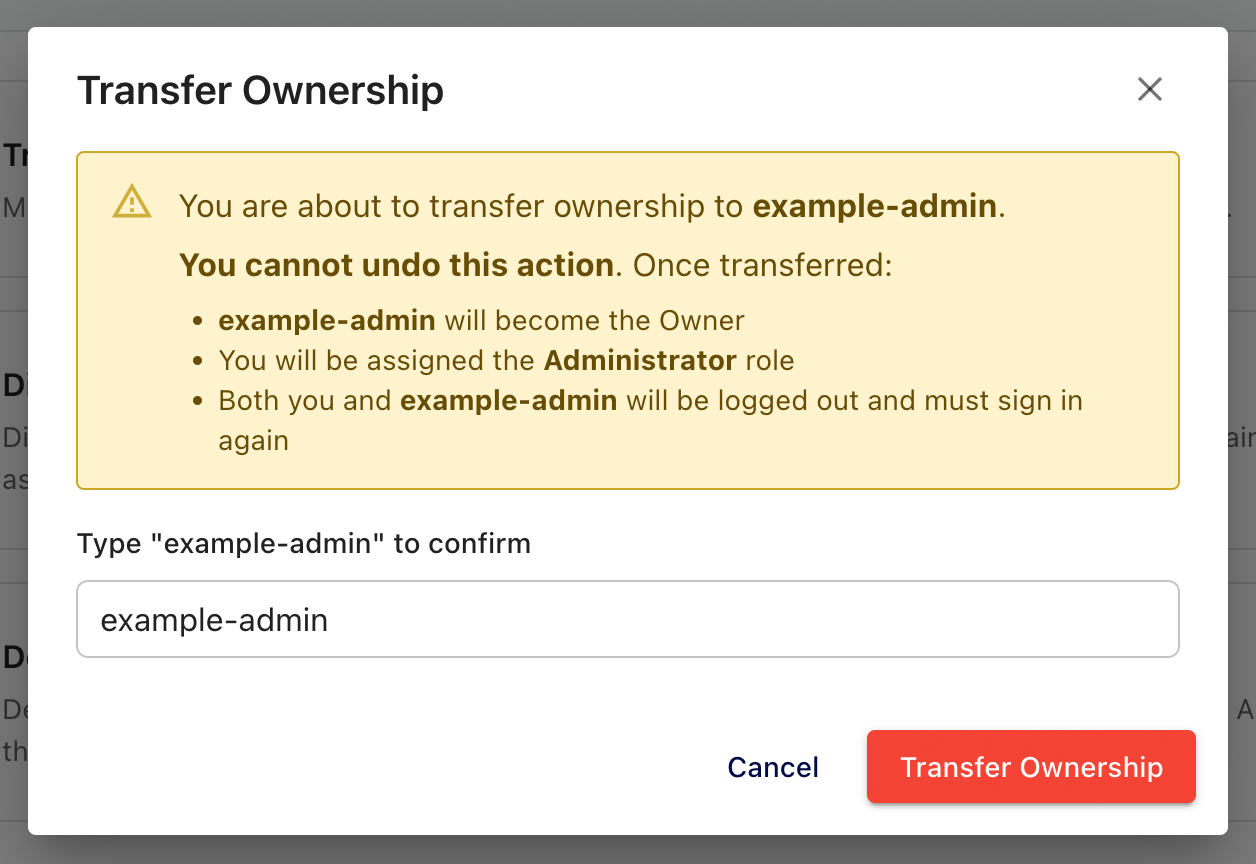
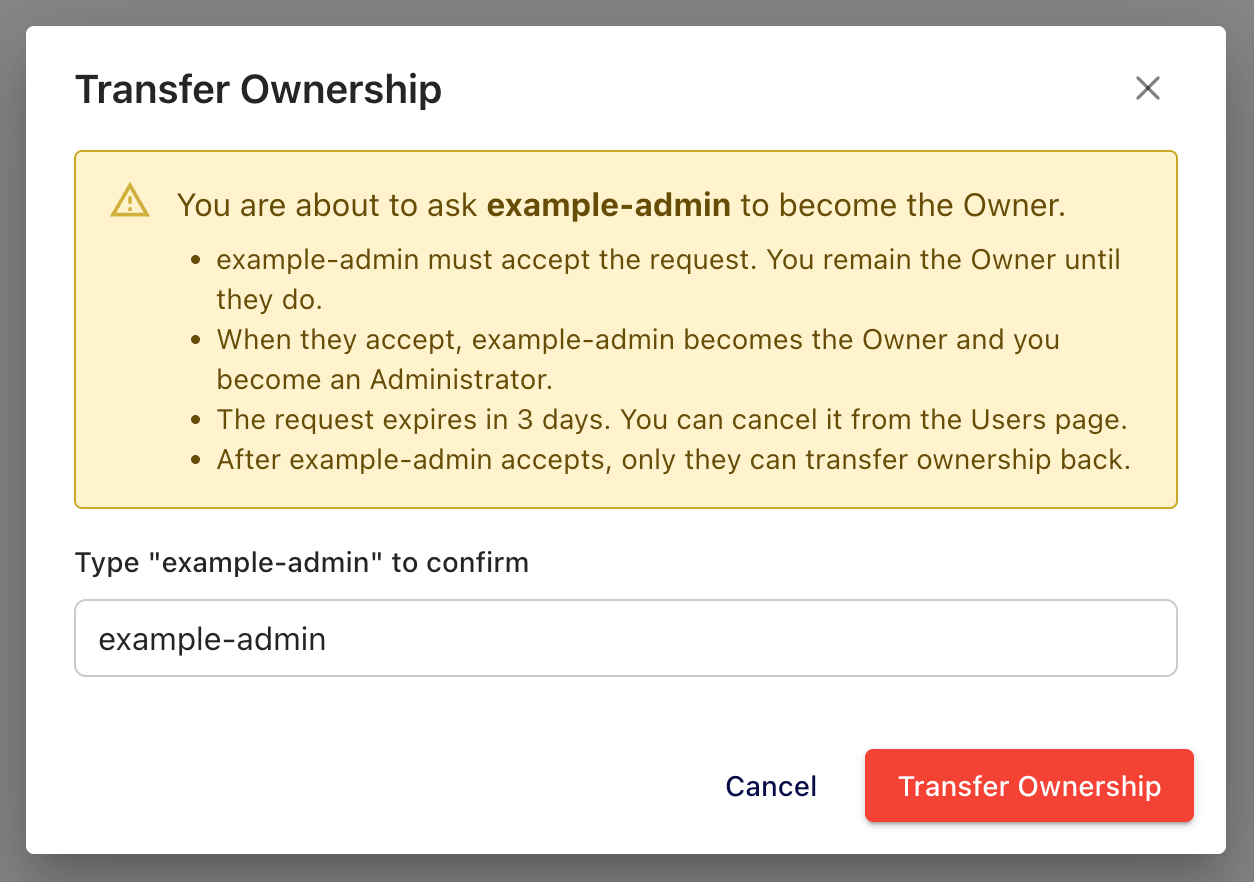
docs(controller): document the ownership transfer flow in the web interface
What changed:
- users/transfer-ownership.md: the page now describes the request-and-
  accept flow in the web interface. "How a transfer works" says both sides
  see the request and that audit logging records each step. "Request the
  transfer" explains the Request Sent confirmation, that the owner keeps
  the role, and what the Users page shows while the request is pending.
  "Accept the transfer" walks the target from the banner's Review request
  button to the Account page card and the Accept Ownership dialog, with
  the recovery password fields for LDAP and OIDC accounts. "Decline or
  cancel a request" covers the Decline button and the three places the
  owner can cancel. "What happens when the transfer is accepted" notes that
  nobody is signed out. A "Use the API" table replaces the API console
  walkthrough. The 1.2 callout about the interface not showing pending
  requests is removed.
- static/img/telegraf: the transfer dialog screenshot is recaptured for
  the new copy and a screenshot of the Account page card is added.
- admin/audit-logs/_index.md: "Ownership transfers" joins "What gets
  audited".
- reference/release-notes.md: a v1.2.0 Features bullet for the flow.

Why:
Telegraf Controller 1.2.0 adds the pending-transfer banner, Account page
card, accept dialog, Users page section, and cancel actions (telegraf_ui
#990 and #991), plus ownership_transfer.* audit events. The page
previously sent target administrators to the API console. Facts verified
[…]

diff --git a/content/telegraf/controller/users/transfer-ownership.md b/content/telegraf/controller/users/transfer-ownership.md
@@ -2,7 +2,7 @@
 title: Transfer ownership
 description: >
   Transfer the Telegraf Controller owner role to another administrator.
-  The owner requests the transfer and the administrator accepts it.
+  The owner sends a request and the administrator accepts it.
 menu:
   telegraf_controller:
     name: Transfer ownership
@@ -10,6 +10,7 @@ menu:
 weight: 104
 related:
   - /telegraf/controller/reference/authentication-authorization/
+  - /telegraf/controller/admin/audit-logs/
   - /telegraf/controller/reference/api/
 ---
 
@@ -18,8 +19,8 @@ including the ability to manage all users, tokens, and settings. Only one owner
 can exist at a time. The current owner can transfer ownership to any active
 administrator.
 
-An ownership transfer is a two-step handoff: the owner requests the transfer,
-and the target administrator accepts it. Nothing changes until the target
+An ownership transfer is a two-step handoff: the owner sends a request, and
+the target administrator accepts it. Nothing changes until the target
 accepts.
 
 - [Prerequisites and restrictions](#prerequisites-and-restrictions)
@@ -28,6 +29,7 @@ accepts.
 - [Accept the transfer](#accept-the-transfer)
 - [Decline or cancel a request](#decline-or-cancel-a-request)
 - [What happens when the transfer is accepted](#what-happens-when-the-transfer-is-accepted)
+- [Use the API](#use-the-api)
 
 ## Prerequisites and restrictions
 
@@ -45,9 +47,9 @@ accepts.
 
 ## How a transfer works
 
-1. The owner requests a transfer to an administrator.
-   The request is **pending** and expires after 72 hours by default.
-   Only one request can be pending at a time; a new request cancels the
+1. The owner sends a transfer request to an administrator.
+   The request is **pending** and expires after three days.
+   Only one request can be pending at a time. A new request replaces the
    previous one.
 2. The target administrator accepts or declines the request, or the owner
    cancels it.
@@ -55,16 +57,11 @@ accepts.
 3. When the target accepts, the roles swap in a single operation.
    See [What happens when the transfer is accepted](#what-happens-when-the-transfer-is-accepted).
 
-> [!Important]
-> #### The web interface does not show pending requests
->
-> In {{% product-name %}} 1.2, the web interface can only request a
-> transfer. After you confirm the request, the dialog reports the transfer as
-> complete and returns you to the sign-in page, but you remain the owner until
-> the target accepts.
-> The target accepts, declines, and the owner cancels through the
-> [{{% product-name %}} API](/telegraf/controller/reference/api/), as
-> described below.
+Both sides can see the request in the web interface while it is pending:
+the owner on the **Users** page, and the target in a banner on every page and
+on their **Account** page.
+With [audit logging](/telegraf/controller/admin/audit-logs/) enabled,
+{{% product-name %}} records each step.
 
 ## Request the transfer
 
@@ -72,83 +69,65 @@ accepts.
 2.  Choose the target **Administrator** from the list (if not already selected).
 3.  Select the **{{% lucide "shield" %}} Make Owner** option. If on the user detail page, select the
     **Manage** tab to reveal the **Make Owner** option.
-4.  Confirm the username of the user you want to transfer ownership to and click
-    **Transfer Ownership**.
+4.  Review what the request does, type the username of the user you want to
+    transfer ownership to, and click **Transfer Ownership**.
 
 {{< img-hd src="/img/telegraf/controller-transfer-ownership.png" alt="Telegraf Controller transfer ownership confirmation" />}}
 
-{{% product-name %}} records the request and returns you to the sign-in page.
-Sign in again if you need to keep working; your role has not changed yet.
-Tell the target administrator that a request is waiting for them.
-
-To set a different expiry, request the transfer from the API instead.
-`POST /api/users/transfer-owner` accepts the target's user ID and an optional
-`expiresInHours` from `1` to `168`:
-
-```json
-{
-  "targetUserId": "01HZ8R5T4VX9YQK0M2N3P4Q5R6",
-  "expiresInHours": 24
-}
-```
+The dialog confirms that the request was sent and when it expires.
+You remain the owner until the target accepts.
+While the request is pending, the **Users** page shows a
+**Pending Ownership Transfer** section with the target's name and the expiry
+time, and the target's **Make Owner** option becomes **Cancel Request**.
 
 ## Accept the transfer
 
-The target administrator accepts the request through the API from their own
-signed-in session.
-The easiest way is the
-[interactive API reference](/telegraf/controller/reference/api/#explore-the-interactive-api-reference),
-which sends requests with your browser session.
+While a request is waiting for you, every page shows a banner that names the
+owner who sent it and when it expires.
 
-1.  Sign in to {{% product-name %}} as the target administrator and open
-    `/api/docs`.
-2.  Send `GET /api/users/transfer-owner/pending` to see the waiting request.
-    A `404` response means no request is pending for your account.
+1.  Sign in to {{% product-name %}} as the target administrator.
+2.  Click **Review request** in the banner, or open your **Account** page
+    from the account menu.
+3.  In the **Pending ownership transfer** card, click **Accept**.
+4.  In the **Accept Ownership** dialog, confirm the handoff.
+    If your account signs in through LDAP or OIDC and has no local password,
+    the dialog also asks for a recovery password: enter it in
+    **Recovery password** and **Confirm recovery password**.
+    The password must meet the
+    [password complexity requirements](/telegraf/controller/settings/#password-complexity-requirements).
+5.  Click **Accept Ownership**.
 
-    ```json
-    {
-      "id": "6f1c2a9e-3b4d-4c5e-8f70-1a2b3c4d5e6f",
-      "fromUserId": "01HZ8R5T4VX9YQK0M2N3P4Q5R6",
-      "fromUsername": "alice",
-      "toUserId": "01J0ABCDEF1234567890GHJKLM",
-      "expiresAt": "2026-05-30T18:42:11.512Z",
-      "createdAt": "2026-05-27T18:42:11.512Z",
-      "requiresRecoveryPassword": true
-    }
-    ```
+{{< img-hd src="/img/telegraf/controller-account-pending-ownership-transfer.png" alt="Telegraf Controller Account page with a pending ownership transfer" />}}
 
-3.  Send `POST /api/users/transfer-owner/accept`.
-    If `requiresRecoveryPassword` is `true`, your account signs in through
-    LDAP or OIDC and has no local password, so the request body must include a
-    recovery password that meets the
-    [password complexity requirements](/telegraf/controller/settings/#password-complexity-requirements):
+You are now the owner. The change applies immediately: your **Account** page
+shows the **Owner** role and the navigation updates without signing in again.
 
-    ```json { placeholders="RECOVERY_PASSWORD" }
-    { "recoveryPassword": "RECOVERY_PASSWORD" }
-    ```
+> [!Note]
+> #### Why a recovery password is required
+>
+> The owner account always keeps a local password so that it can sign in
+> when an external identity provider is unreachable.
+> The recovery password you set becomes that local password.
+> See [Owner account behavior](/telegraf/controller/reference/authentication-authorization/#owner-account-behavior).
 
-    Replace {{% code-placeholder-key %}}`RECOVERY_PASSWORD`{{% /code-placeholder-key %}}
-    with the password to use if your identity provider becomes unavailable.
-    If `requiresRecoveryPassword` is `false`, send an empty JSON object.
-
-    A `204` response means the transfer is complete.
-
-4.  Sign out and sign in again so that your session reflects the **Owner**
-    role.
-
-The owner account always keeps a local password so that it can sign in when
-an external provider is unreachable.
-See [Owner account behavior](/telegraf/controller/reference/authentication-authorization/#owner-account-behavior).
+If the request was cancelled, expired, or the sender is no longer the owner
+when you accept, the dialog shows the error and nothing changes.
 
 ## Decline or cancel a request
 
-- **Target administrator**: send `POST /api/users/transfer-owner/decline`
-  from your signed-in session to decline the request.
-- **Owner**: send `DELETE /api/users/transfer-owner/pending` from your
-  signed-in session to cancel the request you made.
+- **Target administrator**: on your **Account** page, click **Decline** in the
+  **Pending ownership transfer** card and confirm.
+  The owner can send a new request later.
+- **Owner**: cancel the request from any of the following places, then
+  confirm with **Cancel request**:
+  - The **Pending Ownership Transfer** section on the **Users** page.
+  - The **{{% lucide "ban" %}} Cancel Request** button on the target user's
+    **Manage** tab.
+  - The **{{% lucide "shield-off" %}} Cancel Ownership Request** option in
+    the target user's row menu.
 
-Both return `204`. A declined, cancelled, or expired request cannot be
-accepted; the owner must make a new request.
+A declined, cancelled, or expired request cannot be accepted; the owner must
+send a new request.
 
 ## What happens when the transfer is accepted
 
@@ -163,15 +142,44 @@ that updates both accounts together:
   role's permissions.
 - The operation is atomic: all changes succeed together or none takes effect.
 
+Nobody is signed out.
+The new owner's browser updates as soon as the request is accepted, and the
+former owner's browser picks up the new role within a minute.
+
 > [!Tip]
 > #### Coordinate ownership transfers
 >
-> Coordinate with the target user before requesting a transfer.
-> The request expires if it is not accepted in time, and both of you should
-> sign in again once it completes.
+> Coordinate with the target user before sending a request.
+> The request expires after three days if it is not accepted.
 
 > [!Warning]
 > #### You cannot reclaim the Owner role yourself
 >
 > Once the transfer is accepted, you cannot reclaim the **Owner** role
 > yourself. The new owner must transfer it back to you.
+
+## Use the API
+
+The same operations are available from the API for scripted use.
+Every route requires a signed-in session, not an API token.
+
+| Route | Who | Description |
+| :---- | :-- | :---------- |
+| `POST /api/users/transfer-owner` | Owner | Send a request. The body takes `targetUserId` and an optional `expiresInHours` from `1` to `168` (default `72`). Returns the request `id`, `expiresAt`, and `status`. |
+| `GET /api/users/transfer-owner/pending` | Owner or target | Return the pending request that involves you, including `fromUsername`, `toUsername`, `expiresAt`, and `requiresRecoveryPassword`. Returns `404` when nothing is pending. |
+| `POST /api/users/transfer-owner/accept` | Target | Accept the request. Include `recoveryPassword` in the body when `requiresRecoveryPassword` is `true`. |
+| `POST /api/users/transfer-owner/decline` | Target | Decline the request. |
+| `DELETE /api/users/transfer-owner/pending` | Owner | Cancel the request. |
+
+For example, to send a request that expires in 24 hours:
+
+```json
+{
+  "targetUserId": "01HZ8R5T4VX9YQK0M2N3P4Q5R6",
+  "expiresInHours": 24
+}
+```
+
+The [interactive API reference](/telegraf/controller/reference/api/#explore-the-interactive-api-reference)
+sends requests with your browser session, so you can use it for any of these
+routes.

diff --git a/content/telegraf/controller/reference/release-notes.md b/content/telegraf/controller/reference/release-notes.md
@@ -88,17 +88,6 @@ The affected endpoints are listed under [API changes](#api-changes).
   records its source (system-generated, user-provided, or env/flag-provided).
   Operators can [disable pre-shared tokens](/telegraf/controller/tokens/preshared/#disable-pre-shared-tokens)
   at startup.
-- Add [bootstrap owner tokens](/telegraf/controller/tokens/bootstrap/):
-  provision an all-access token at startup with `OWNER_TOKEN` or
-  `--owner-token` for infrastructure-as-code workflows. The token is
-  idempotent across restarts and rotates its predecessor when the value
-  changes.
-- Sign audit entries with a configured key and verify the chain
-  (Telegraf Enterprise): each entry records the fingerprint of the key that
-  signed it, {{% product-name %}} verifies the current month's chain at
-  startup, and `GET /api/audit-logger/verify` checks every retained monthly
-  file on demand.
-  See [Verify integrity](/telegraf/controller/admin/audit-logs/view/#verify-integrity).
 - Redesign the [Agents page](/telegraf/controller/agents/monitor/): a fleet
   status bar with **Fleet Health**, **Telegraf Versions**, and
   **Last Reported** summaries, removable filter chips, a **Telegraf Version**
@@ -112,6 +101,24 @@ The affected endpoints are listed under [API changes](#api-changes).
 - Add a [heartbeat service health](/telegraf/controller/admin/monitor/#heartbeat-service-health)
   indicator to the navigation and `GET /api/heartbeat/health`, which report
   why the heartbeat service is unhealthy, not only whether it responds.
+- Add [bootstrap owner tokens](/telegraf/controller/tokens/bootstrap/):
+  provision an all-access token at startup with `OWNER_TOKEN` or
+  `--owner-token` for infrastructure-as-code workflows. The token is
+  idempotent across restarts and rotates its predecessor when the value
+  changes.
+- Transfer ownership from the web interface with a request that the target
+  administrator accepts. The owner sends the request from the **Users** page
+  and can cancel it while it is pending; the target sees a banner on every
+  page and accepts or declines from their **Account** page, setting a
+  recovery password when their account has no local one. Audit logging
+  records each step.
+  See [Transfer ownership](/telegraf/controller/users/transfer-ownership/).
+- Sign audit entries with a configured key and verify the chain
+  (Telegraf Enterprise): each entry records the fingerprint of the key that
+  signed it, {{% product-name %}} verifies the current month's chain at
+  startup, and `GET /api/audit-logger/verify` checks every retained monthly
+  file on demand.
+  See [Verify integrity](/telegraf/controller/admin/audit-logs/view/#verify-integrity).
 - Include log entries in the default heartbeat output template.
   New configurations ship with `"logs"` in the plugin's `include` list and a
   limit of 50 entries per heartbeat.

diff --git a/content/telegraf/controller/admin/audit-logs/_index.md b/content/telegraf/controller/admin/audit-logs/_index.md
@@ -47,6 +47,9 @@ and demonstrate compliance with internal or external policies.
   updates (including membership changes), and deletion.
 - **Constants**: [global constant](/telegraf/controller/configs/constants/)
   creation, value updates, and deletion.
+- **Ownership transfers**:
+  [ownership transfer](/telegraf/controller/users/transfer-ownership/)
+  requests sent, accepted, declined, cancelled, and expired.
 - **Security advisories**:
   [advisory file](/telegraf/controller/security-advisories/) updates applied
   automatically or imported manually, rollbacks to an older advisory file,
